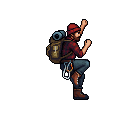
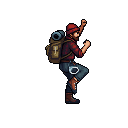
Grounded camp props, staged camp building and a natural climbing step
The camp ledge is now placed by its first row of solid grass rather
than one column's tuft, so the tent, fire and climbers stand on the
ground instead of floating; the fire pit painted into the ledge image
is covered with the grass beside it.

Pitching camp plays in stages: the rolled tent on the ground, a
groundsheet and two poles swinging up into an A, the canvas pulled down
over them, then pegs going in with taps and dust. The fire is laid
stones then logs, catches with a burst of sparks and its flames climb
out of the logs; in the morning both run backwards. The leader kneels
at the tent's near corner and the partner beyond the fire, so neither
covers it, and the unlit pile has every flame pixel removed.

Both climbers get a regenerated climb with a natural leg cycle: one
leg long and pushing while the other steps up a moderate height,
instead of both knees folding up; the arms are unchanged.

Changed region(s): [[0.3438, 0.1562, 0.7188, 0.8125], [0.375, 0.4375, 0.4375, 0.5]]

diff --git a/js/scene.js b/js/scene.js
@@ -170,18 +170,27 @@ const ART={},FIRE_N=6;
   const surface=p=>{const x=p.w>>1;for(let y=0;y<p.h;y++)if(p.d[(y*p.w+x)*4+3]>40)return y;return 0;};
   // camp ledges: Camp I as drawn; Camp II with its grass and moss turned to snow and its rock cooled to blue-grey
   // (the ledge's walkable span: the columns whose top lies within a few pixels of the surface, where a tent can stand)
-  load(asset("assets/ledge.png"),im=>{const p=pixels(im);ART.ledge=im;ART.ledgeTop=surface(p);
-    const top=x=>{for(let y=0;y<p.h;y++)if(p.d[(y*p.w+x)*4+3]>40)return y;return p.h;};let a=0,b=p.w-1;
+  load(asset("assets/ledge.png"),im=>{const p=pixels(im),d=p.d;ART.ledgeTop=surface(p);
+    // the image came with a ring of logs (an old fire pit) on its grass; it is painted over with the plain grass
+    // just to its right, so the team's own fire is the only one on the ledge
+    for(let y=0;y<32;y++)for(let x=60;x<109;x++){const i=(y*p.w+x)*4,j=i+50*4;for(let k=0;k<4;k++)d[i+k]=d[j+k];}
+    const top=x=>{for(let y=0;y<p.h;y++)if(d[(y*p.w+x)*4+3]>40)return y;return p.h;};let a=0,b=p.w-1;
     // (the image's back end may carry a slab of cliff rising well above the ledge: it is cut off where that starts,
     // so only the ledge itself is drawn, its back end against the real wall)
     while(a<p.w&&top(a)>ART.ledgeTop+4)a++;let w=a;while(w<p.w&&top(w)>=ART.ledgeTop-6)w++;
-    b=w-1;while(b>a&&top(b)>ART.ledgeTop+4)b--;ART.ledgeWalk=[a,b];ART.ledgeW=w;wintry(p.d);
-    const [c,g]=mk(p.w,p.h),id=g.createImageData(p.w,p.h);id.data.set(p.d);g.putImageData(id,0,0);ART.ledgeSnow=c;FX.camps={};});
+    b=w-1;while(b>a&&top(b)>ART.ledgeTop+4)b--;ART.ledgeWalk=[a,b];ART.ledgeW=w;
+    // the ground line: the first row of solid grass all along the walkable span (the tufts above it are just grass),
+    // which is where the camp's height sits, so feet, the tent and the fire stand on the grass, not on the tufts
+    let gy=ART.ledgeTop;for(;gy<p.h;gy++){let n=0;for(let x=a;x<=b;x++)if(d[(gy*p.w+x)*4+3]>200)n++;if(n>=.95*(b-a+1))break;}ART.ledgeGround=gy;
+    const canvasOf=()=>{const [c,g]=mk(p.w,p.h),id=g.createImageData(p.w,p.h);id.data.set(d);g.putImageData(id,0,0);return c;};
+    ART.ledge=canvasOf();wintry(d);ART.ledgeSnow=canvasOf();FX.camps={};});
   load(asset("assets/tent.png"),im=>{ART.tent=im;FX.camps={};FX.base=null;});
   // the campfire's flicker loop; the unlit pile is its first frame with the flames (bright orange and yellow pixels)
   // taken out, leaving the leaning logs and the stones
   ART.fire=Array.from({length:FIRE_N},(_,i)=>{const im=new Image();im.src=asset(`assets/fire/${i}.png`);
-    if(!i)im.onload=()=>{const p=pixels(im),d=p.d;for(let j=0;j<d.length;j+=4)if(d[j]>200&&d[j+1]>90&&d[j]-d[j+2]>80)d[j+3]=0;
+    // (flame pixels: bright orange and yellow, the white-hot core, and the blue at the flames' root)
+    if(!i)im.onload=()=>{const p=pixels(im),d=p.d;for(let j=0;j<d.length;j+=4){const r=d[j],gr=d[j+1],b=d[j+2];
+      if((r>200&&gr>90&&r-b>80)||(r>215&&gr>200&&b>170)||(b>r+30&&b>110))d[j+3]=0;}
       const [c,g]=mk(p.w,p.h),id=g.createImageData(p.w,p.h);id.data.set(d);g.putImageData(id,0,0);ART.firePile=c;};
     return im;});
   load(asset("assets/pine.png"),im=>{ART.pine=im;FX.base=null;});
@@ -558,7 +567,7 @@ const ledgeW=()=>ART.ledge?ART.ledgeW||ART.ledge.width:0,ledgeL=()=>30-ledgeW();
 function campLayer(k,cy){if(FX.camps[k])return FX.camps[k];
   // (the buttress under the ledge, painted with the cliff, fills in between the ledge's back end and the wall)
   const x1=30,x0=Math.min(-176,ledgeL()-8),y0=cy-110,y1=cy+100,[c,g]=mk(x1-x0,y1-y0),X=x=>x-x0,Y=y=>y-y0,snow=k==="c2";
-  if(ART.ledge){const L=snow?ART.ledgeSnow:ART.ledge,W=ledgeW();g.drawImage(L,0,0,W,L.height,X(ledgeL()),Y(cy-ART.ledgeTop),W,L.height);}
+  if(ART.ledge){const L=snow?ART.ledgeSnow:ART.ledge,W=ledgeW();g.drawImage(L,0,0,W,L.height,X(ledgeL()),Y(cy-ART.ledgeGround),W,L.height);}
   else for(let x=-170;x<x1;x++){const end=x<-160?(x+170)/10:1,th=R0((9+hash(x>>2,5)*4)*end);
     for(let y=0;y<=th;y++){let col=rockAt(x,cy+y+400);if(y===th)col=C.crack;else if(y>=th-1)col=C.rockD;
       if(y<=1)col=snow?(y?C.snowS:C.snow):(y?C.moss:C.mossL);if(y===2&&!snow&&hash(x,9)<.4)col=C.mossD;dot(g,X(x),Y(cy+y),col);}
@@ -573,19 +582,43 @@ function campLayer(k,cy){if(FX.camps[k])return FX.camps[k];
 function campSpots(){const L=ART.ledge,T=ART.tent,F=ART.fire&&ART.fire[0];
   const walk0=L&&ART.ledgeWalk?ledgeL()+ART.ledgeWalk[0]:-140,tb=T?boxOf(T):{x0:0,x1:70,y1:50},tw=tb.x1-tb.x0;
   // (the tent faces out of the screen, so its door is in the middle; the sign's post takes the first few pixels)
-  const fb=F&&F.complete&&F.naturalWidth?boxOf(F):{x0:4,x1:34},fw=fb.x1-fb.x0,tentL=walk0+12,tentR=tentL+tw,fireL=tentR+14;
-  return {tentX:tentL-tb.x0,tentR,fireX:fireL-fb.x0,fireC:fireL+(fw>>1),meWork:tentR+12,mateWork:fireL+fw+14,door:tentL+(tw>>1)};}
+  // (the leader kneels in front of the tent's near corner pegging it out, clear of the fire; the partner kneels on
+  // the fire's far side, between it and the wall)
+  const fb=F&&F.complete&&F.naturalWidth?boxOf(F):{x0:4,x1:34},fw=fb.x1-fb.x0,tentL=walk0+12,tentR=tentL+tw,fireL=tentR+22;
+  return {tentX:tentL-tb.x0,tentR,fireX:fireL-fb.x0,fireC:fireL+(fw>>1),meWork:tentR-30,mateWork:fireL+fw+12,door:tentL+(tw>>1)};}
 // the tent, risen from the ground up to fraction p (being pitched or packed away)
+// The tent being pitched, at stage p (0 nothing, 1 standing; packing away runs it backwards):
+//   to .12  the rolled-up tent lies on the ground where it will stand
+//   to .35  a groundsheet is spread and the two poles swing up from its corners to meet in an A
+//   to .85  the canvas is pulled over the poles from the apex down, swaying a little as it goes
+//   to 1    pegged out: the whole tent stands
 function drawTentRise(g,x,y,p){if(p<=0)return;if(!ART.tent){if(p>=1)drawTent(g,x,y);return;}
-  const T=ART.tent,b=boxOf(T),h=b.y1+1-b.y0,v=Math.max(1,R0(h*p)),sy=b.y1+1-v;g.drawImage(T,0,sy,T.width,v,x,y-v,T.width,v);}
-// the campfire: a pile of logs, then the generated flame loop (until those load, the small painted fire)
-function drawFire(g,x,y,lit,t){const F=ART.fire,ok=F&&F.every(im=>im.complete&&im.naturalWidth);
-  if(!ok){g.drawImage(sprites().fire[lit?Math.floor(t*8)%3:0],x+12,y-11);return;}
-  const im=lit?F[Math.floor(t*9)%FIRE_N]:(ART.firePile||F[0]);g.drawImage(im,x,y-boxOf(im).y1-1);}
+  const T=ART.tent,b=boxOf(T),h=b.y1+1-b.y0,top=y-(b.y1+1),ax=x+((b.x0+b.x1)>>1),ay=top+b.y0+2,lx=x+b.x0+4,rx=x+b.x1-4,gy=y-1;
+  if(p>=.85){g.drawImage(T,x,top);return;}
+  if(p<.12){const k=p/.12,w=R0(10+8*k);rect(g,ax-w,gy-5,w*2,5,"#8c3a14");rect(g,ax-w+1,gy-5,w*2-2,1,"#e0782c");rect(g,ax-w,gy-1,w*2,1,"#3a1a0c");return;}
+  // the groundsheet, and the poles rising (fully up from .35)
+  rect(g,lx-2,gy,rx-lx+4,1,"#3a2a1c");const k=clamp((p-.12)/.23,0,1),ang=lerp(Math.PI*.04,Math.atan2(gy-ay,ax-lx),smooth(k)),len=Math.hypot(ax-lx,gy-ay);
+  const px=Math.cos(ang)*len,py=Math.sin(ang)*len;
+  for(const s of [1,-1]){const bx=s>0?lx:rx;pline(g,bx,gy,bx+px*s,gy-py,"#4a2a12");pline(g,bx+1,gy,bx+px*s+1,gy-py,"#7a4a22");}
+  if(p<.35)return;
+  // the canvas, pulled down over the frame from the apex, swaying until it settles
+  const c=(p-.35)/.5,v=Math.max(1,R0(h*smooth(c))),sw=R0(Math.sin(c*Math.PI*3)*2*(1-c));
+  g.drawImage(T,0,b.y0,T.width,v,x+sw,top+b.y0,T.width,v);}
+// The campfire at stage f (0 nothing, 1 burning): stones and then logs are laid from the ground up (to .8), then the
+// flames climb up out of the logs (to 1) and settle into the generated flicker loop. Until the art loads, the
+// small painted fire stands in.
+const fireLit=cp=>cp&&cp.fire>=.8;
+function drawFire(g,x,y,f,t){if(f<=0)return;const F=ART.fire,ok=F&&F.every(im=>im.complete&&im.naturalWidth)&&ART.firePile;
+  if(!ok){g.drawImage(sprites().fire[f>=.8?Math.floor(t*8)%3:0],x+12,y-11);return;}
+  const P=ART.firePile,pb=boxOf(P),base=y-pb.y1-1;
+  if(f<.8){const v=Math.max(1,R0((pb.y1+1-pb.y0)*f/.8)),sy=pb.y1+1-v;g.drawImage(P,0,sy,P.width,v,x,base+sy,P.width,v);return;}
+  const im=F[Math.floor(t*9)%FIRE_N],fb=boxOf(im),fy=y-fb.y1-1;
+  if(f>=1){g.drawImage(im,x,fy);return;}
+  g.drawImage(P,x,base);const v=Math.max(1,R0((fb.y1+1-fb.y0)*(f-.8)/.2)),sy=fb.y1+1-v;g.drawImage(im,0,sy,im.width,v,x,fy+sy,im.width,v);}
 function drawCamp(g,k,cy,t,ox,oy){const L=campLayer(k,cy);g.drawImage(L.c,L.x0+ox,L.y0+oy);
   const C2=FX.camp;if(!C2||C2.k!==k)return;const S=campSpots();
   drawTentRise(g,S.tentX+ox,cy+oy,C2.tent);
-  if(C2.fire){drawFire(g,S.fireX+ox,cy+oy,C2.fire==="lit",t);if(C2.fire==="lit")embers(S.fireC,cy-10,1);}}
+  drawFire(g,S.fireX+ox,cy+oy,C2.fire||0,t);if(fireLit(C2))embers(S.fireC,cy-12,1);}
 // the base-camp meadow and the near pines, painted once per view width
 function baseLayer(){const ox=FX.ox,w=FX.vw;if(FX.base&&FX.base.ox===ox&&FX.base.w===w)return FX.base;
   const x0=-ox-8,x1=w-ox+8,y0=-90,y1=120,[c,g]=mk(x1-x0,y1-y0),X=x=>x-x0,Y=y=>y-y0;
@@ -644,7 +677,7 @@ function stepAmbient(dt){
   FX.nextBird-=dt;if(FX.nextBird<0&&!RM.matches){FX.nextBird=8+Math.random()*10;FX.birds.push({x:-10,y:.12+Math.random()*.3,v:9+Math.random()*6,n:2+(Math.random()*3|0),t:0});}
   FX.birds=FX.birds.filter(b=>{b.x+=b.v*dt;b.t+=dt;return b.x<FX.vw+30;});
   const c=FX.cam;if(!c)return;
-  const vy0=c.y-FX.vh/2,vy1=c.y+FX.vh/2,cp=FX.camp;if(cp&&cp.fire==="lit"&&cp.cy>vy0&&cp.cy<vy1&&Math.random()<dt*5)sfx("crackle");
+  const vy0=c.y-FX.vh/2,vy1=c.y+FX.vh/2,cp=FX.camp;if(fireLit(cp)&&cp.cy>vy0&&cp.cy<vy1&&Math.random()<dt*5)sfx("crackle");
   // while the team sleeps, a "z" drifts up from the tent now and then
   if(cp&&cp.sleep&&!RM.matches&&(FX.nextZ=(FX.nextZ||0)-dt)<0){FX.nextZ=1.4;const S=campSpots();FX.pops.push({x:S.door+8,y:cp.cy-6,text:"z",t:0});}
 }
@@ -703,7 +736,7 @@ function paint(t){
   for(const b of FX.birds)for(let i=0;i<b.n;i++)g.drawImage(SP.bird?SP.bird[Math.floor(b.t*5+i)%2]:sprites().bird[0],R0(b.x-i*7),R0(b.y*h+(i%2?3:-1)*i));
   if(art)drawPines(g,w,h,climb);
   else for(const L of FX.layers){const y=R0(climb*L.par);if(y<h)g.drawImage(L.c,0,y);}
-  if(vy1>-120){const B=baseLayer();g.drawImage(B.c,B.x0+ox,B.y0+oy);drawFire(g,-118+ox,oy,true,t);embers(-100,-10,1);}
+  if(vy1>-120){const B=baseLayer();g.drawImage(B.c,B.x0+ox,B.y0+oy);drawFire(g,-118+ox,oy,1,t);embers(-100,-10,1);}
   const [c1,c2]=chunkRange(vy0,vy1);for(let ci=c1;ci<=c2;ci++)g.drawImage(chunk(ci),-40+ox,-(ci+1)*CHK+oy);
   if(vy1>-120)drawFrontPines(g,ox,oy);
   for(const [kk,ix] of [["c1",IDX_C1],["c2",IDX_C2]]){const y=-ix*HS;if(y>vy0-70&&y<vy1+30)drawCamp(g,kk,y,t,ox,oy);}
@@ -723,9 +756,9 @@ function drawNight(g,w,h,t,ox,oy){const n=FX.night,cp=FX.camp;
     if(hash(i,23)*1.3>n)continue;const tw=Math.sin(t*2+i*1.7)>.7;dot(g,sx,sy,tw?"#ffffff":"#c9d6f2");}
   if(!cp)return;const S=campSpots(),cy=cp.cy;
   if(cp.tent>0){g.globalAlpha=.55*n;drawTentRise(g,S.tentX+ox,cy+oy,cp.tent);g.globalAlpha=1;}
-  if(cp.fire==="lit"){const fx=S.fireC+ox,fy=cy-8+oy;
+  if(fireLit(cp)){const fx=S.fireC+ox,fy=cy-8+oy;
     for(const [r,a,c] of [[30,.10,"#ff9a3a"],[20,.16,"#ffb04a"],[12,.22,"#ffd27a"]]){g.globalAlpha=a*n;pdisc(g,fx,fy,r,c);}
-    g.globalAlpha=1;drawFire(g,S.fireX+ox,cy+oy,true,t);}}
+    g.globalAlpha=1;drawFire(g,S.fireX+ox,cy+oy,cp.fire,t);}}
 
 /* ---------- overlays: pixel title cards, captions and confetti ---------- */
 function title(text,sub,tone){const fx=$("#fx");if(!fx)return;fx.querySelectorAll(".tcard").forEach(x=>x.remove());
@@ -749,12 +782,18 @@ const campOf=ix=>ix===IDX_C1?"c1":ix===IDX_C2?"c2":null;
 // the team has both arrived on the ledge: the leader walks to the tent spot and pitches it while the partner builds
 // the fire and lights it; dusk falls, and they walk to the door and turn in for the night
 async function makeCamp(ix,ch="main"){const k=campOf(ix);if(!k)return true;const A=FX.A,me=A.me,mate=A.mate,S=campSpots(),cy=-ix*HS;
-  FX.camp={k,ix,cy,tent:0,fire:null,sleep:false};FX.leaving=null;
+  FX.camp={k,ix,cy,tent:0,fire:0,sleep:false};FX.leaving=null;const cp=FX.camp;
   const walk=Math.max(me.walkTo(S.meWork),mate.walkTo(S.mateWork));if(!(await wait(walk+150,ch)))return false;
   me.work(-1);mate.work(-1);
-  setTimeout(()=>{if(FX.camp&&FX.camp.k===k&&!FX.camp.fire)FX.camp.fire="pile";},700);
-  setTimeout(()=>{if(FX.camp&&FX.camp.k===k&&FX.camp.fire==="pile"){FX.camp.fire="lit";sfx("crackle");}},2300);
-  if(!(await play(2800,p=>{FX.camp.tent=smooth(p);},ch)))return false;
+  // taps and dust as the poles go up and the pegs go in; a burst of sparks as the fire catches
+  const T=ART.tent?boxOf(ART.tent):{x0:0,x1:70},tl=S.tentX+T.x0+4,tr=S.tentX+T.x1-4;let pegs=0,lit=0;
+  const tentGo=play(4400,p=>{cp.tent=p;
+    if(pegs<1&&p>.3){pegs=1;puff(tl,cy-2);puff(tr,cy-2);sfx("grab");}
+    if(pegs<2&&p>.88){pegs=2;puff(tl-6,cy-1);sfx("grab");}if(pegs<3&&p>.94){pegs=3;puff(tr+6,cy-1);sfx("grab");}},ch);
+  const fireGo=wait(500,ch).then(r=>r&&play(3600,p=>{cp.fire=p;
+    if(!lit&&p>=.8){lit=1;sfx("crackle");for(let i=0;i<10;i++)emit({k:"ember",x:S.fireC+(Math.random()-.5)*8,y:cy-8,vx:(Math.random()-.5)*20,vy:-20-Math.random()*25,g:-3,l:.8+Math.random()*.6,m:1.4});}},ch));
+  if(!(await tentGo)||!(await fireGo))return false;
+  if(!lit)return false;
   me.standAt(me.N.x,cy);mate.standAt(mate.N.x,cy);if(!(await wait(500,ch)))return false;
   if(!(await play(2400,p=>{FX.night=smooth(p);},ch)))return false;
   const w2=Math.max(me.walkTo(S.door),mate.walkTo(S.door+6));if(!(await wait(w2+100,ch)))return false;
@@ -766,9 +805,10 @@ function leaveCamp(ch="main"){if(!FX.camp)return Promise.resolve(true);if(FX.lea
     me.hidden=mate.hidden=false;cp.sleep=false;me.standAt(S.door,cp.cy);mate.standAt(S.door+6,cp.cy);me.hi=mate.hi=ix;
     if(!(await play(1800,p=>{FX.night=1-smooth(p);},ch)))return false;
     const w=Math.max(me.walkTo(S.meWork),mate.walkTo(mate.rest(ix).x));if(!(await wait(w+100,ch)))return false;
-    me.work(-1);cp.fire="pile";
-    if(!(await play(1400,p=>{cp.tent=1-smooth(p);},ch)))return false;
-    cp.fire=null;me.standAt(me.N.x,cp.cy);const w3=Math.max(me.walkTo(me.rest(ix).x),mate.walkTo(mate.rest(ix).x));
+    // the fire is out by morning (just its logs); the tent comes down pole by pole as it went up, backwards
+    me.work(-1);cp.fire=.79;
+    if(!(await play(2600,p=>{cp.tent=1-p;cp.fire=.79*(1-p);},ch)))return false;
+    cp.fire=0;me.standAt(me.N.x,cp.cy);const w3=Math.max(me.walkTo(me.rest(ix).x),mate.walkTo(mate.rest(ix).x));
     if(!(await wait(w3+100,ch)))return false;
     me.standAt(me.rest(ix).x,cp.cy);mate.standAt(mate.rest(ix).x,cp.cy);FX.camp=null;FX.night=0;return true;})();}
 async function climbRig(r,to,ms,id,ch="main"){
@@ -837,7 +877,7 @@ async function runDemo(){ // lobby: a rope team climbs the whole cliff on a loop
 // (opened or reloaded while the team is at a camp: the camp is already up and they are asleep in it)
 function snap(exp,t){FX.ch.main++;const A=FX.A,ix=idxOf(exp,exp.pitch);placeTeam(exp,ix);
   A.me.gear=exp.rope;if(t.round.phase==="summit"){A.me.cheer=2;A.mate.cheer=2;}
-  else if(campOf(ix)){FX.camp={k:campOf(ix),ix,cy:-ix*HS,tent:1,fire:"lit",sleep:true};FX.night=1;A.me.hidden=A.mate.hidden=true;}
+  else if(campOf(ix)){FX.camp={k:campOf(ix),ix,cy:-ix*HS,tent:1,fire:1,sleep:true};FX.night=1;A.me.hidden=A.mate.hidden=true;}
   FX.cam=null;}
 
 function drawTopo(t){
